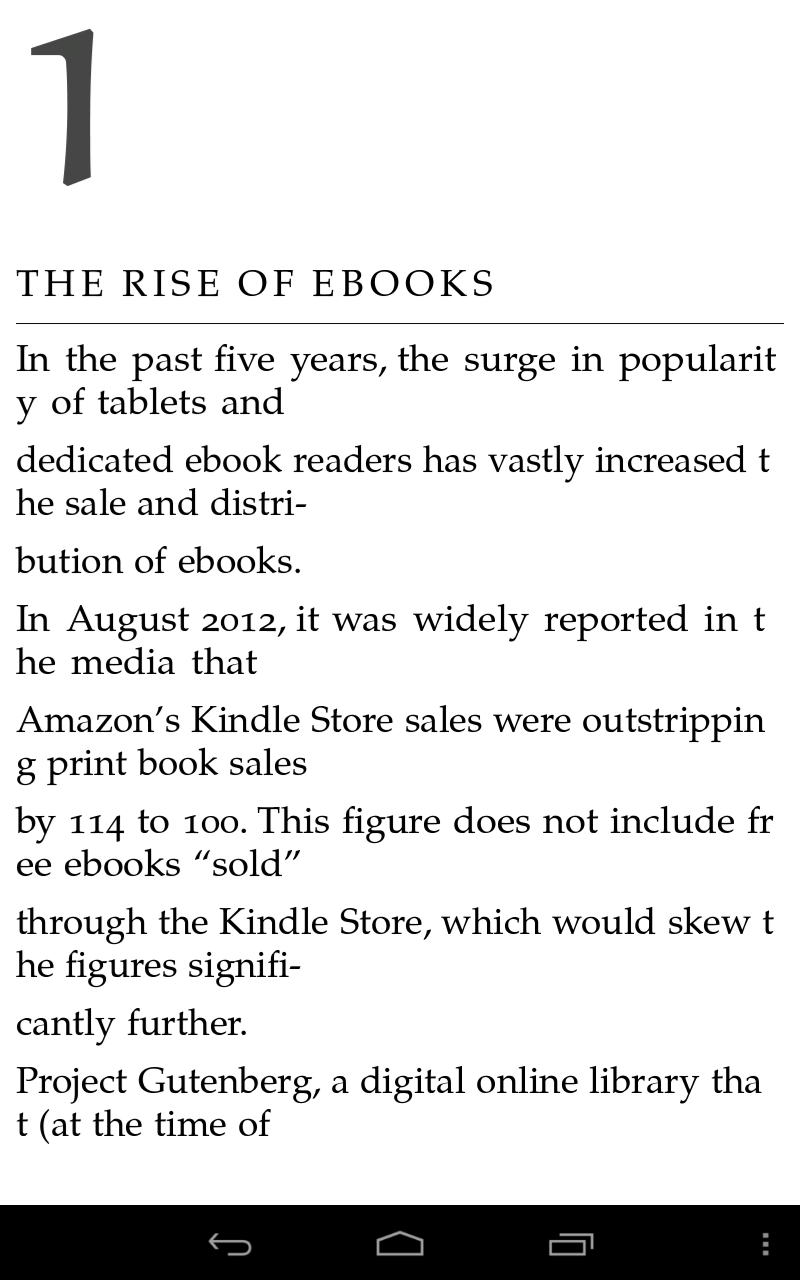
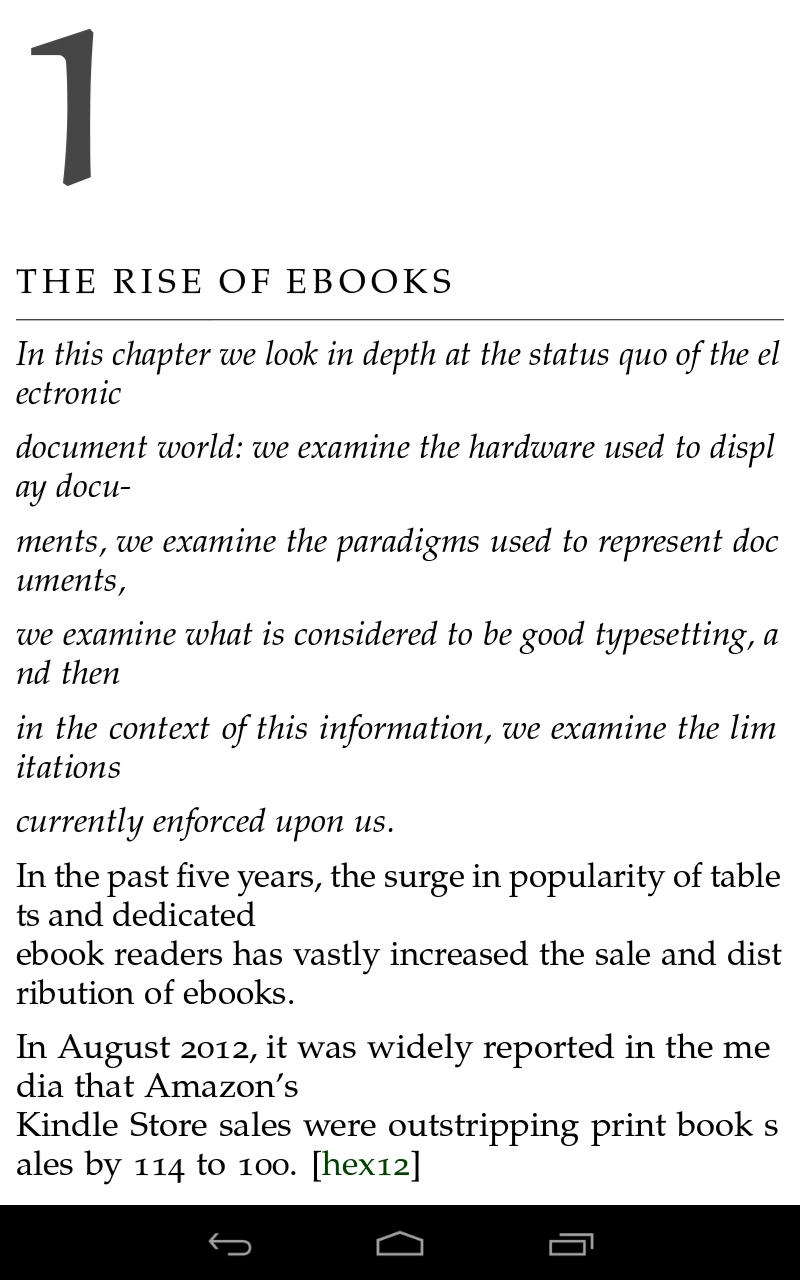
Update acrobat reflow screenshot

Changed region(s): [[0.0, 0.1875, 0.9688, 0.9375]]

diff --git a/Chapters/ChapterIntro.tex b/Chapters/ChapterIntro.tex
@@ -133,8 +133,6 @@ The archetypal \pdf{} file consists solely of drawing operators that describe th
 
 This lack of imposed semantic structure makes it difficult to infer the best way to ``unpick'' \pdf{} files to allow their content to be reflowed into a new layout.\hspace{0pt}\cite{Lovegrove1995, Bagley2005} For example, it is not easy to decide programatically whether a line break between adjacent lines of text is explicitly intended to be there (for example, the end of a paragraph) or if it is an artefact of the document layout. As an example, the Adobe Reader app for Android cheerfully offers to reflow \pdf{} pages should you require it, but usually results in what can be seen in Figure~\ref{fig:acrobatreflow}.
 
-\todo{UPDATE THIS FIGURE}
-
 \begin{figure}
 \fbox{\includegraphics[width=0.98\textwidth]{gfx/acrobatreflow}}
 \caption[Reflowed text of a \textsc{pdf} file]{Adobe's Reader app for Android includes an option that allows \pdf{} files to be reflowed, but the lack of semantic structure within most \pdf{} files limits the process to using only what can be inferred from the original layout. This figure shows the start of this chapter reflowed by the app\ed{}see page~\pageref{ch:intro}.}
